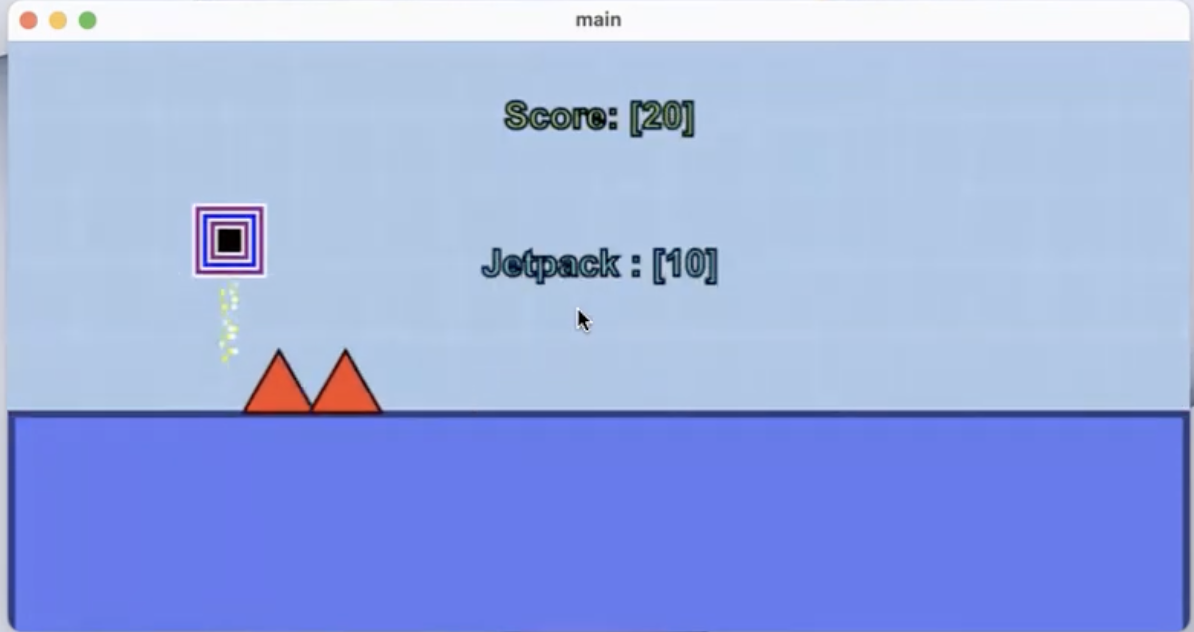
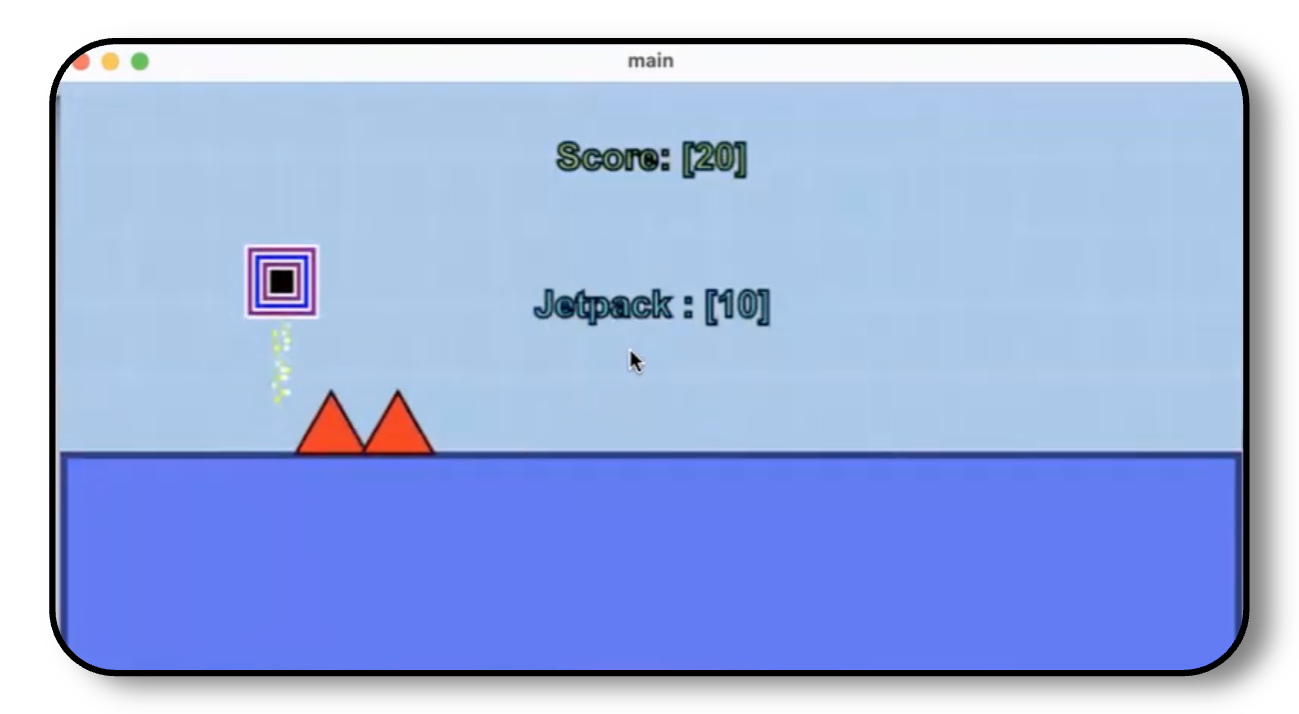
figured out cropping, animation for cards

diff --git a/app/components/ProjectCard.tsx b/app/components/ProjectCard.tsx
@@ -1,23 +1,27 @@
-export default function ProjectCard({ title, description, link, image }: {
+export default function ProjectCard({ title, link, image }: {
   title: string;
   description: string;
   link: string;
   image?: string;
+  square?: boolean;
 }) {
   return (
-    <div className="group border border-gray-200 rounded-xl p-6 overflow-hidden">
-      <div className="flex justify-between items-center mb-4">
-        <p className="text-sm text-gray-400">Projects · {title}</p>
-        <a href={link} target="_blank" className="text-gray-400 group-hover:text-gray-900 rounded-full w-8 h-8 border border-transparent group-hover:border-gray-300 transition-colors inline-flex items-center justify-center">↗</a>
+    <div className="group h-full w-full overflow-hidden rounded-xl bg-gray-100 hover:bg-gray-200 transition-colors duration-300">
+      <div className="relative isolate h-full w-full">
+        <div className="flex items-center justify-between pl-4 pr-2 pt-3 pb-6 text-sm text-gray-500">
+          <p>Projects · {title}</p>
+          <a href={link} target="_blank" className="text-gray-400 group-hover:text-gray-900 rounded-full w-8 h-8 border border-transparent group-hover:border-gray-300 transition-colors inline-flex items-center justify-center">↗</a>
+        </div>
+        <a href={link} target="_blank" className="block h-full w-full">
+          {image && (
+            <img
+              src={image}
+              alt={title}
+              className="absolute h-full w-full object-contain origin-top transition-transform duration-300 group-hover:scale-105"
+            />
+          )}
+        </a>
       </div>
-      <a href={link} target="_blank" className="block overflow-hidden rounded-lg">
-        {image ? (
-          <img src={image} alt={title} className={`w-full h-48 object-contain transition-transform duration-300 group-hover:scale-105`} />
-        ) : (
-          <div className={`bg-gray-100 rounded-lg h-48 transition-transform duration-300 group-hover:scale-105`} />
-        )}
-      </a>
-      <p className="text-sm text-gray-400 mt-4">{description}</p>
     </div>
   );
 }

diff --git a/app/projects/page.tsx b/app/projects/page.tsx
@@ -42,9 +42,9 @@ export default function Projects() {
         <p className="text-lg text-gray-400 max-w-xl mb-16">
           Things I&apos;ve built — mostly for fun and to learn.
         </p>
-        <div className="grid grid-cols-4 gap-6">
+        <div className="grid grid-cols-4">
           {projects.map((project) => (
-            <div key={project.title} className={project.square ? "col-span-1" : "col-span-2"}>
+            <div key={project.title} className={`px-2 pb-4 ${project.square ? "col-span-1 aspect-square" : "col-span-2 aspect-[2]"}`}>
               <ProjectCard {...project} />
             </div>
           ))}

diff --git a/readme.md b/readme.md
@@ -1,0 +1,5 @@
+Rectangle: 1299, 714
+
+Border + Shadow: https://ezcropper.app/
+
+Croping/Resizing : https://imageresizer.com/ 
